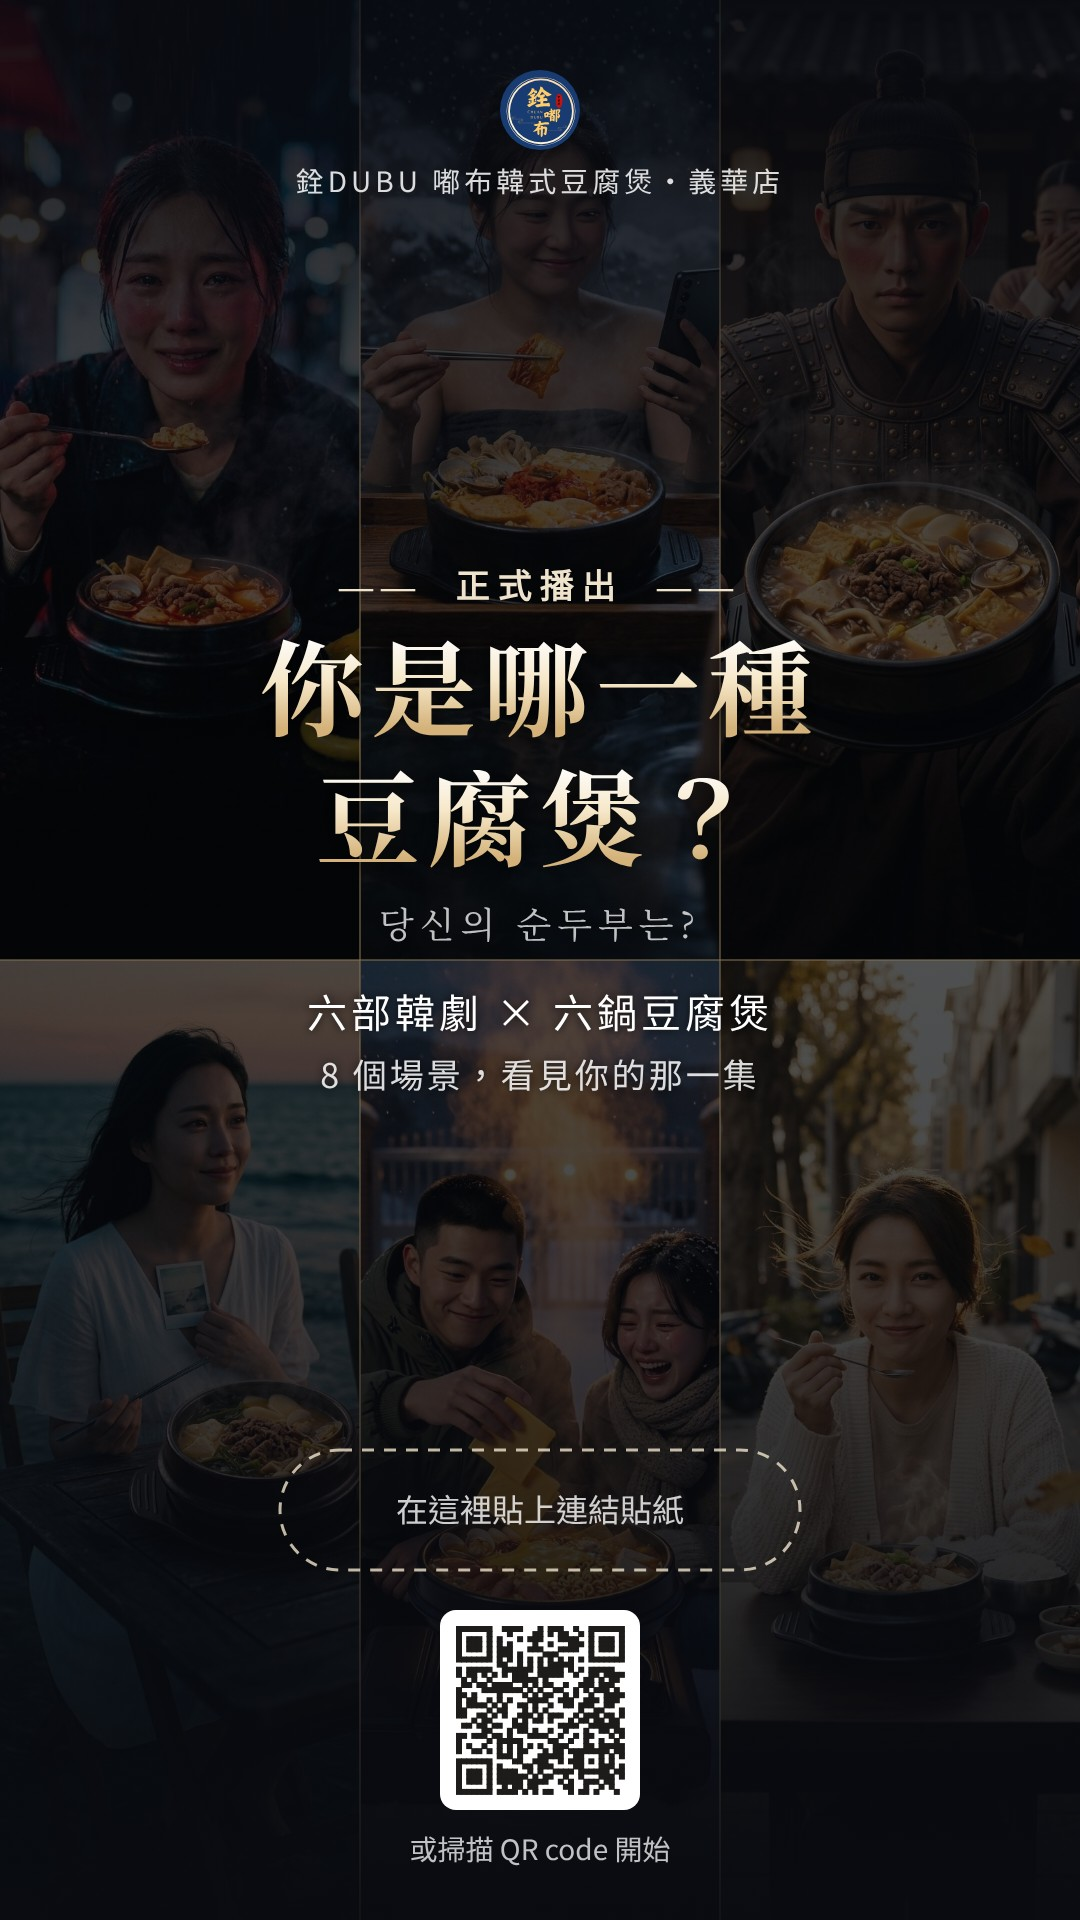
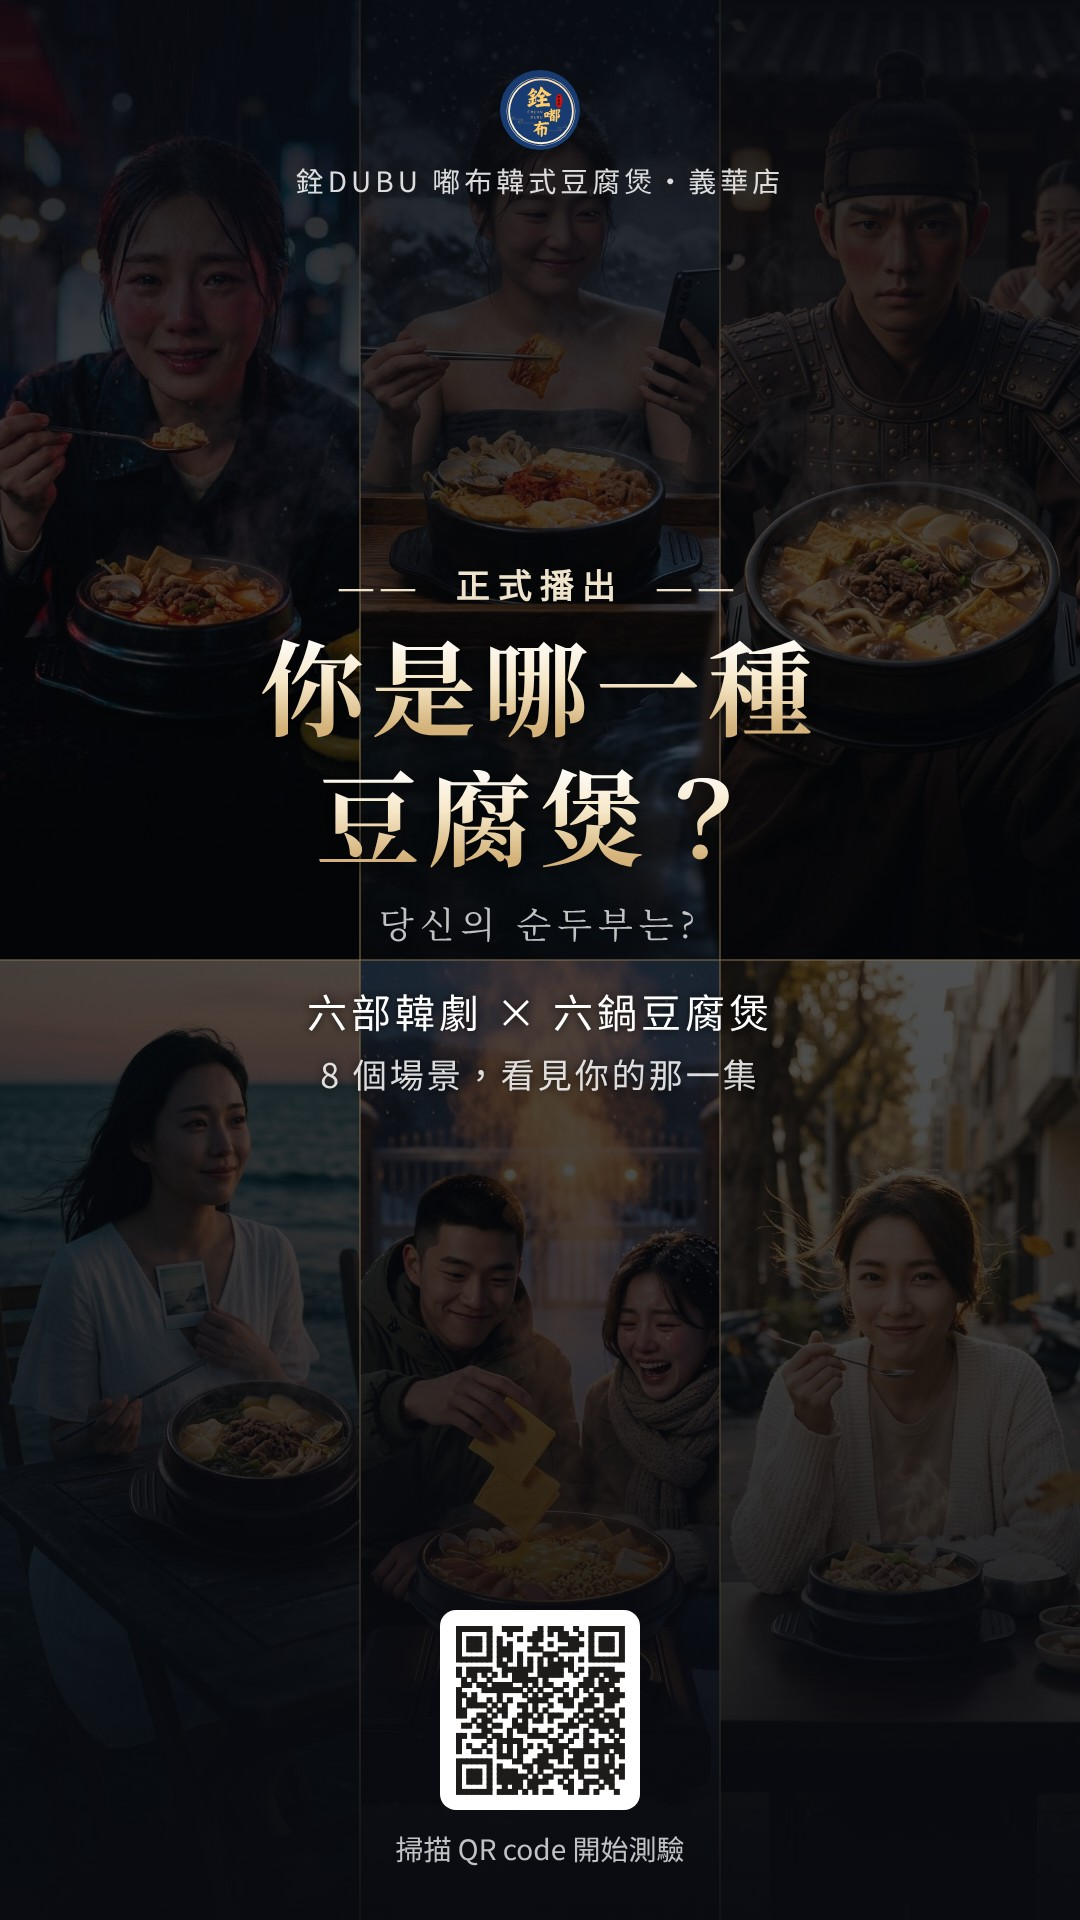
tofu-quiz: mobile layout for owner page, fit Korean line on result, story image without sticker placeholder
Claude-Session: https://claude.ai/code/session_01R1Sp5wDSP1TCHALX8C9Ndf

Changed region(s): [[0.3667, 0.9375, 0.6417, 0.9688], [0.3667, 0.7812, 0.6417, 0.8125]]

diff --git a/tofu-quiz/owner/index.html b/tofu-quiz/owner/index.html
@@ -88,6 +88,31 @@ pre{white-space:pre-wrap;word-break:break-word;font:400 14.5px/1.8 var(--sans);b
 .hday li time{font:700 13px var(--sans);color:#8A6A3A;margin-right:6px;font-variant-numeric:tabular-nums}
 .hday li b{font-weight:700}.hday li small{display:block;color:var(--muted);font-size:13px;margin-top:2px}
 @media(max-width:520px){.hday{grid-template-columns:1fr;gap:6px}}
+.tgrid{display:grid;gap:10px;grid-template-columns:1fr}
+@media(min-width:640px){.tgrid{grid-template-columns:1fr 1fr}}@media(min-width:900px){.tgrid{grid-template-columns:repeat(3,1fr)}}
+.tcard{border:1px solid var(--line);border-radius:var(--r);padding:12px 14px;font-size:14px;background:#FBF7EE}
+.tcard .ep{font:700 12px var(--sans);color:#8A6A3A;margin-right:8px}.tcard b{font:700 16px var(--serif)}
+.tcard div{margin-top:4px}.tcard small{display:block;color:var(--muted);font-size:12.5px;margin-top:4px}
+@media(max-width:600px){
+  .wrap{padding:0 14px}
+  .top h1{font-size:24px}
+  nav button{padding:6px 12px;font-size:14px}
+  h2{font-size:20px}
+  .card{padding:14px}
+  .act{grid-template-columns:1fr;gap:8px;padding:12px 14px}
+  .act .dt{display:flex;align-items:baseline;gap:8px}
+  .act .dt b{display:inline;font-size:18px}.act .dt br{display:none}.act .dt i{margin-top:0}
+  .post{gap:12px}
+  .post .pics{display:grid;grid-template-columns:1fr 1fr;gap:8px}
+  .post .pics>a,.post .pics .two{grid-column:auto}
+  .post .pics .two{display:contents}
+  .post .pics img{height:220px;object-fit:cover}
+  .post header{flex-direction:column;gap:4px}
+  pre{font-size:14px;padding:10px 12px}
+  .link img{width:110px;height:110px}
+  .vgrid{grid-template-columns:1fr 1fr}
+  .ep-grid{grid-template-columns:repeat(3,1fr)}
+}
 .toast{position:fixed;left:50%;bottom:26px;transform:translateX(-50%) translateY(20px);background:var(--navy);color:#EFE3CC;padding:10px 18px;border-radius:999px;font-size:14px;opacity:0;transition:.25s;pointer-events:none;z-index:9}
 .toast.on{opacity:1;transform:translateX(-50%)}
 </style>
@@ -135,8 +160,7 @@ pre{white-space:pre-wrap;word-break:break-word;font:400 14.5px/1.8 var(--sans);b
       <ul class="note">
         <li><b>期間：</b>11/20（五）開播，11/29（日）六集播完，共兩週</li>
         <li><b>影片：</b>只釋出 MV 合輯；六集用劇照圖發文</li>
-        <li><b>做法：</b>每次只做一件事——發一支 Reels，再分享到限動加連結。不辦抽獎、不需要等留言互動</li>
-        <li><b>期間：</b>不限日期，長期放在 IG 個人檔案</li>
+        <li><b>做法：</b>開播日發 MV Reels，之後每集發劇照圖＋限動連結。不辦抽獎、不需要等留言互動</li>
         <li><b>形式：</b>8 題測驗 → 六種豆腐煲人格，各自一集韓劇劇照＋主題曲</li>
         <li><b>不提供折扣</b>，目的是話題與品牌曝光</li>
         <li>店內不另辦實體活動，店員只需知道「有這個測驗」即可</li>
@@ -146,7 +170,7 @@ pre{white-space:pre-wrap;word-break:break-word;font:400 14.5px/1.8 var(--sans);b
 
   <div class="card" style="margin-top:16px">
     <h3>六種人格</h3>
-    <div style="overflow-x:auto"><table id="typeTable"><thead><tr><th>EP</th><th>劇名</th><th>人格</th><th>一句話</th><th>本命 CP</th><th>天敵</th></tr></thead><tbody></tbody></table></div>
+    <div class="tgrid" id="typeGrid"></div>
   </div>
 
   <div class="card" style="margin-top:16px">
@@ -267,11 +291,12 @@ ${TAGS}`},
 ${TAGS}`},
  {id:'launchStory',title:'開播｜限時動態',when:'11/20（五）11:35',plat:'IG／FB 限動',imgs:[S+'01-launch-story.jpg'],
   text:`限動操作：
-1. 上傳圖片
+1. 上傳開播限動圖
 2. 加「連結」貼紙，網址：${SITE}
-   貼紙文字建議：測我的豆腐煲人格
-3. 貼紙放在圖片下方預留的位置
-4. 可加「投票」貼紙：你覺得你是哪一鍋？（辣嫩／部隊）`},
+   貼紙文字：測我的豆腐煲人格
+3. 貼紙放在畫面中間空白處
+
+※ IG 限動裡只有「連結」貼紙可以點，粉絲點了就會直接進入測驗。`},
  ...ORDER.map((k,i)=>{const t=T[k],m=T[MATE[k]],f=T[FOE[k]];return{id:'ep'+t.ep,title:`EP.${t.ep}｜${t.drama}`,when:EPDATE[i],plat:'IG＋FB 貼文＋限動',imgs:[epPost(k),epStory(k)],
   text:`EP.${t.ep}｜${t.drama}
 
@@ -333,7 +358,7 @@ const ptitle=id=>{const p=POSTS.find(x=>x.id===id);return p?p.title:''};
 const actHTML=(a,isNext)=>`<div class="act${ts(a)+30*60e3<now?' past':''}${isNext?' next':''}">
   <div class="dt"><b>${fmt(a.d)}</b><span>週${wd(a.d)}</span><br><i>${a.t}</i></div>
   <div><span class="tag">${a.plat}</span><h4>${a.title}</h4><ol>${a.steps.map(x=>`<li>${x}</li>`).join('')}</ol>
-  <div class="mats">${a.post?`<button class="btn sm" data-goto="${a.post}">文案：${ptitle(a.post)}</button>`:''}${a.mats.map(m=>m[0].startsWith('#')?'':`<a class="btn sm ghost" href="${m[0]}" download="${fname(m[0])}">${m[1]}</a>`).join('')}</div></div></div>`;
+  <div class="mats">${a.post?`<button class="btn sm" data-goto="${a.post}">看文案</button>`:''}${a.mats.map(m=>m[0].startsWith('#')?'':`<a class="btn sm ghost" href="${m[0]}" download="${fname(m[0])}">${m[1]}</a>`).join('')}</div></div></div>`;
 
 
 const HIST=[
@@ -353,7 +378,7 @@ const HIST=[
 
 /* render */
 const esc=s=>s.replace(/[&<>]/g,c=>({'&':'&amp;','<':'&lt;','>':'&gt;'}[c]));
-document.querySelector('#typeTable tbody').innerHTML=ORDER.map(k=>{const t=T[k];return`<tr><td class="d">EP.${t.ep}</td><td>${t.drama}</td><td>${t.name}人格</td><td>${t.slogan}</td><td>${T[MATE[k]].name}</td><td>${T[FOE[k]].name}</td></tr>`}).join('');
+document.getElementById('typeGrid').innerHTML=ORDER.map(k=>{const t=T[k];return`<div class="tcard"><span class="ep">EP.${t.ep}</span><b>${t.drama}</b><div>${t.name}人格｜${t.slogan}</div><small>本命 CP：${T[MATE[k]].name}　天敵：${T[FOE[k]].name}</small></div>`}).join('');
 const fname=p=>p.split('/').pop();
 const pic=p=>`<a href="${p}" download="${fname(p)}" title="下載"><img src="${p}" alt="" loading="lazy"></a>`;
 document.getElementById('postList').innerHTML=POSTS.map(p=>`<article class="card post">

diff --git a/tofu-quiz/index.html b/tofu-quiz/index.html
@@ -169,7 +169,7 @@ button{font:inherit;color:inherit;cursor:pointer}
 .r-intro{text-align:center;padding:36px 24px 6px}
 .r-intro .who{font-size:13px;letter-spacing:.24em;color:var(--ink-muted)}
 .r-intro .nm{font-family:var(--font-serif);font-weight:700;font-size:28px;letter-spacing:.06em;margin-top:6px}
-.ko-say{display:inline-flex;align-items:center;gap:10px;margin-top:22px;background:none;border:0;padding:6px 8px;border-radius:var(--radius-md);
+.ko-say{display:inline-flex;max-width:100%;align-items:center;gap:10px;margin-top:22px;background:none;border:0;padding:6px 8px;border-radius:var(--radius-md);
   font-family:var(--font-korean);font-weight:700;font-size:clamp(22px,6.6vw,28px);line-height:1.45;color:var(--ink);letter-spacing:.02em;text-align:center}
 .ko-say svg{flex:none;color:var(--gold-text)}
 .ko-say span{word-break:keep-all}
@@ -475,10 +475,11 @@ function stillHTML(k,opt={}){
 }
 function fillStill(el,k,opt){el.innerHTML=stillHTML(k,opt);el.style.setProperty('--tc',TYPES[k].c)}
 function fitKo(){
-  const b=$('koBtn'),sp=$('rKo'),max=b.parentElement.clientWidth-8; if(!max)return;
+  const b=$('koBtn'),sp=$('rKo'); const max=Math.min(b.parentElement.clientWidth,document.documentElement.clientWidth-40); if(!max)return;
+  const w=()=>Math.max(b.scrollWidth,sp.getBoundingClientRect().width);
   sp.style.whiteSpace='nowrap'; let fs=28; b.style.fontSize=fs+'px';
-  while(b.scrollWidth>max&&fs>19){fs-=1;b.style.fontSize=fs+'px'}
-  if(b.scrollWidth>max){sp.style.whiteSpace='normal'}
+  while(w()>max&&fs>16){fs-=1;b.style.fontSize=fs+'px'}
+  if(w()>max){sp.style.whiteSpace='normal'}
 }
 function fitLine(el,text){
   el.style.whiteSpace='nowrap'; el.textContent=text.replace('\n',''); let fs=20; el.style.fontSize=fs+'px';
@@ -487,7 +488,9 @@ function fitLine(el,text){
   if(el.scrollWidth>max){el.style.whiteSpace='normal';el.innerHTML=text.replace('\n','<br>');el.style.fontSize='18px'}
 }
 function show(id){document.querySelectorAll('.screen').forEach(s=>s.classList.toggle('on',s.id===id));window.scrollTo(0,0);if(id==='result'&&result)requestAnimationFrame(()=>{fitLine($('rLine'),TYPES[result].line);fitKo()})}
-window.addEventListener('resize',()=>{if(result&&$('result').classList.contains('on')){fitLine($('rLine'),TYPES[result].line);fitKo()}});
+const refit=()=>{if(result&&$('result').classList.contains('on')){fitLine($('rLine'),TYPES[result].line);fitKo()}};
+window.addEventListener('resize',refit);
+if(document.fonts){document.fonts.ready.then(refit);document.fonts.addEventListener&&document.fonts.addEventListener('loadingdone',refit)}
 function toast(m){const t=$('toast');t.textContent=m;t.classList.add('on');clearTimeout(t._t);t._t=setTimeout(()=>t.classList.remove('on'),2200)}
 
 /* ========== 主題曲 ========== */
